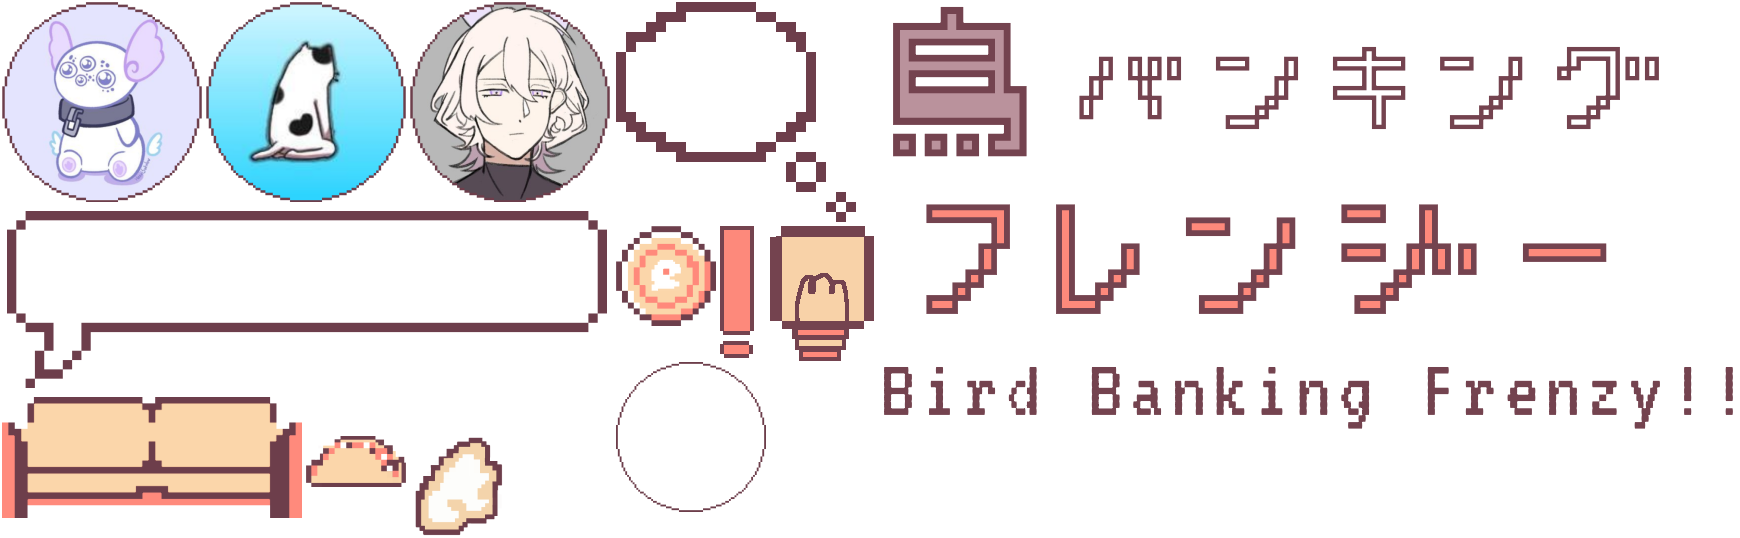
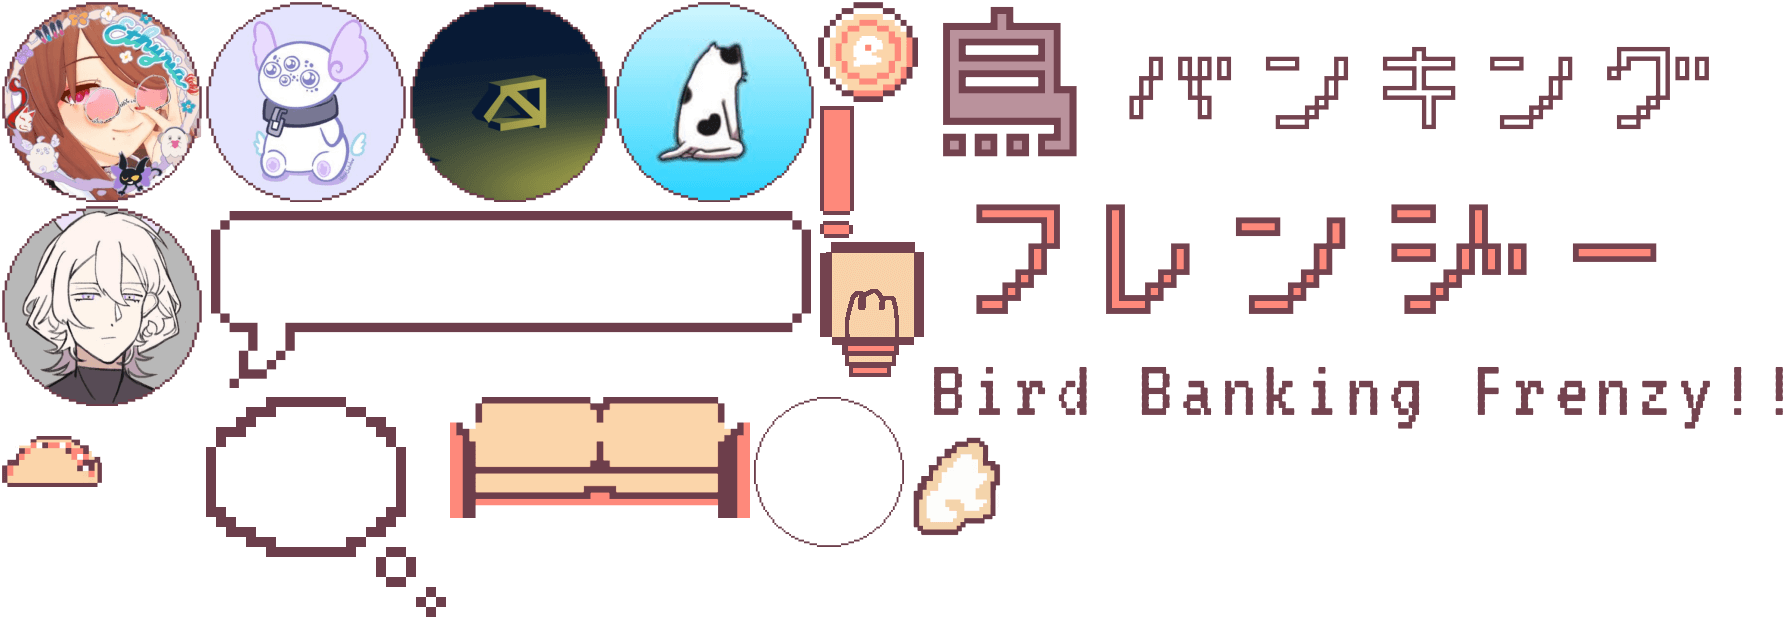
Updated credits

diff --git a/src/scenes/credits.js b/src/scenes/credits.js
@@ -92,8 +92,30 @@ class CreditsScene extends Phaser.Scene {
     });
 
     this.add.sprite(150, 500, 'ui', 'frame').setScale(0.66);
+    this.add.sprite(150, 500, 'ui', 'av_heko').setScale(0.4);
+    this.add.text(220, 470, 'heko @hekontent', {
+      fontFamily: 'VT323, Arial, Helvetica, sans-serif',
+      fontSize: 30,
+      color: '#6d3e4b',
+    });
+    this.add.text(220, 500, 'Background Music and Sound Effects', {
+      fontFamily: 'VT323, Arial, Helvetica, sans-serif',
+      fontSize: 26,
+      color: '#6d3e4b',
+    });
 
     this.add.sprite(150, 610, 'ui', 'frame').setScale(0.66);
+    this.add.sprite(150, 610, 'ui', 'av_elodie').setScale(0.4);
+    this.add.text(220, 580, 'Elodie @ElodieFollows', {
+      fontFamily: 'VT323, Arial, Helvetica, sans-serif',
+      fontSize: 30,
+      color: '#6d3e4b',
+    });
+    this.add.text(220, 610, 'Sound Effects', {
+      fontFamily: 'VT323, Arial, Helvetica, sans-serif',
+      fontSize: 26,
+      color: '#6d3e4b',
+    });
   }
 }
 
